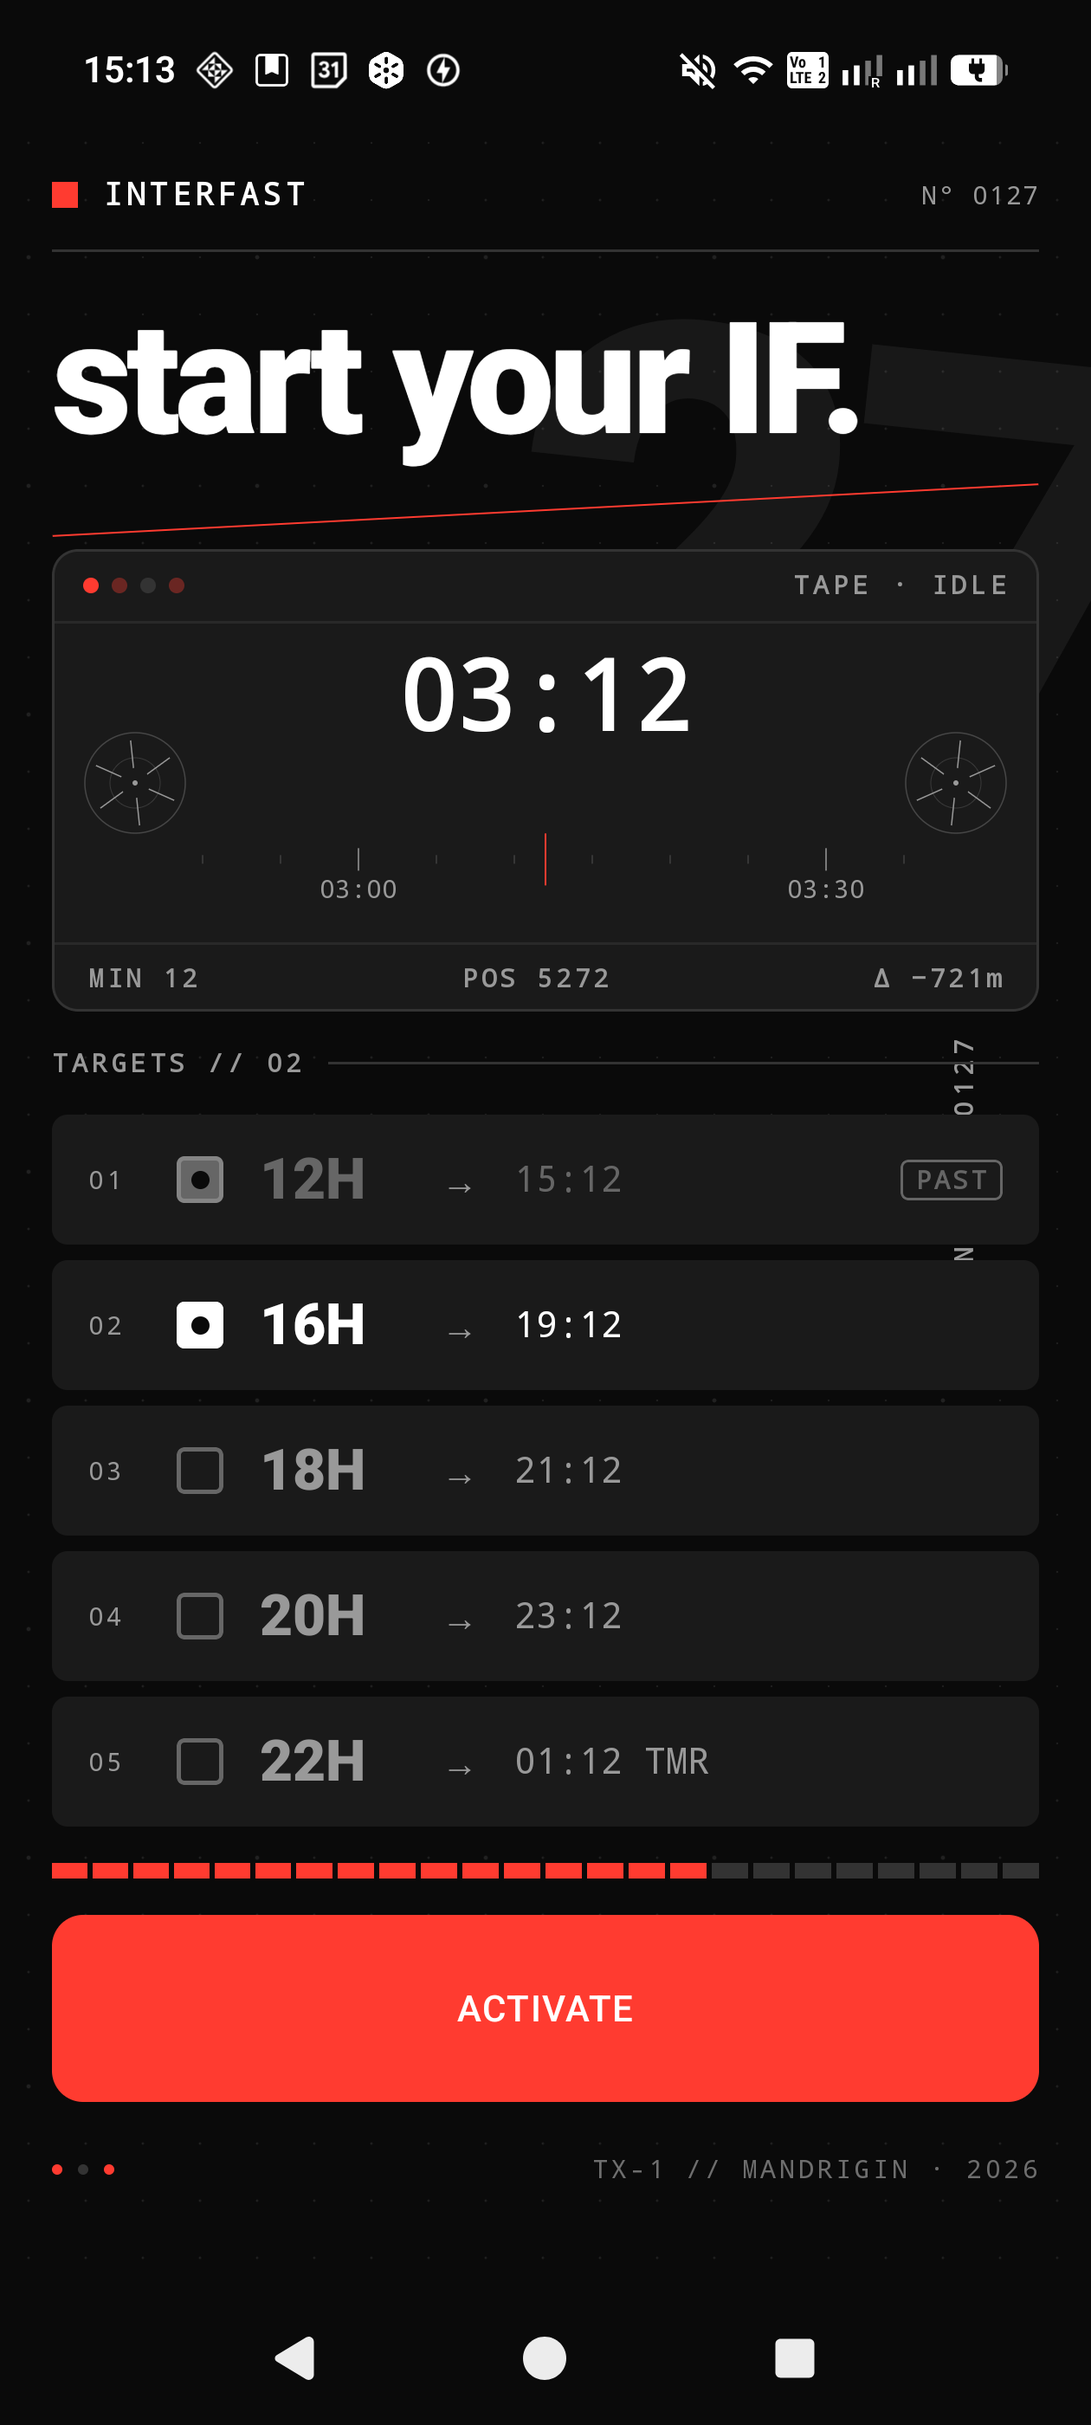
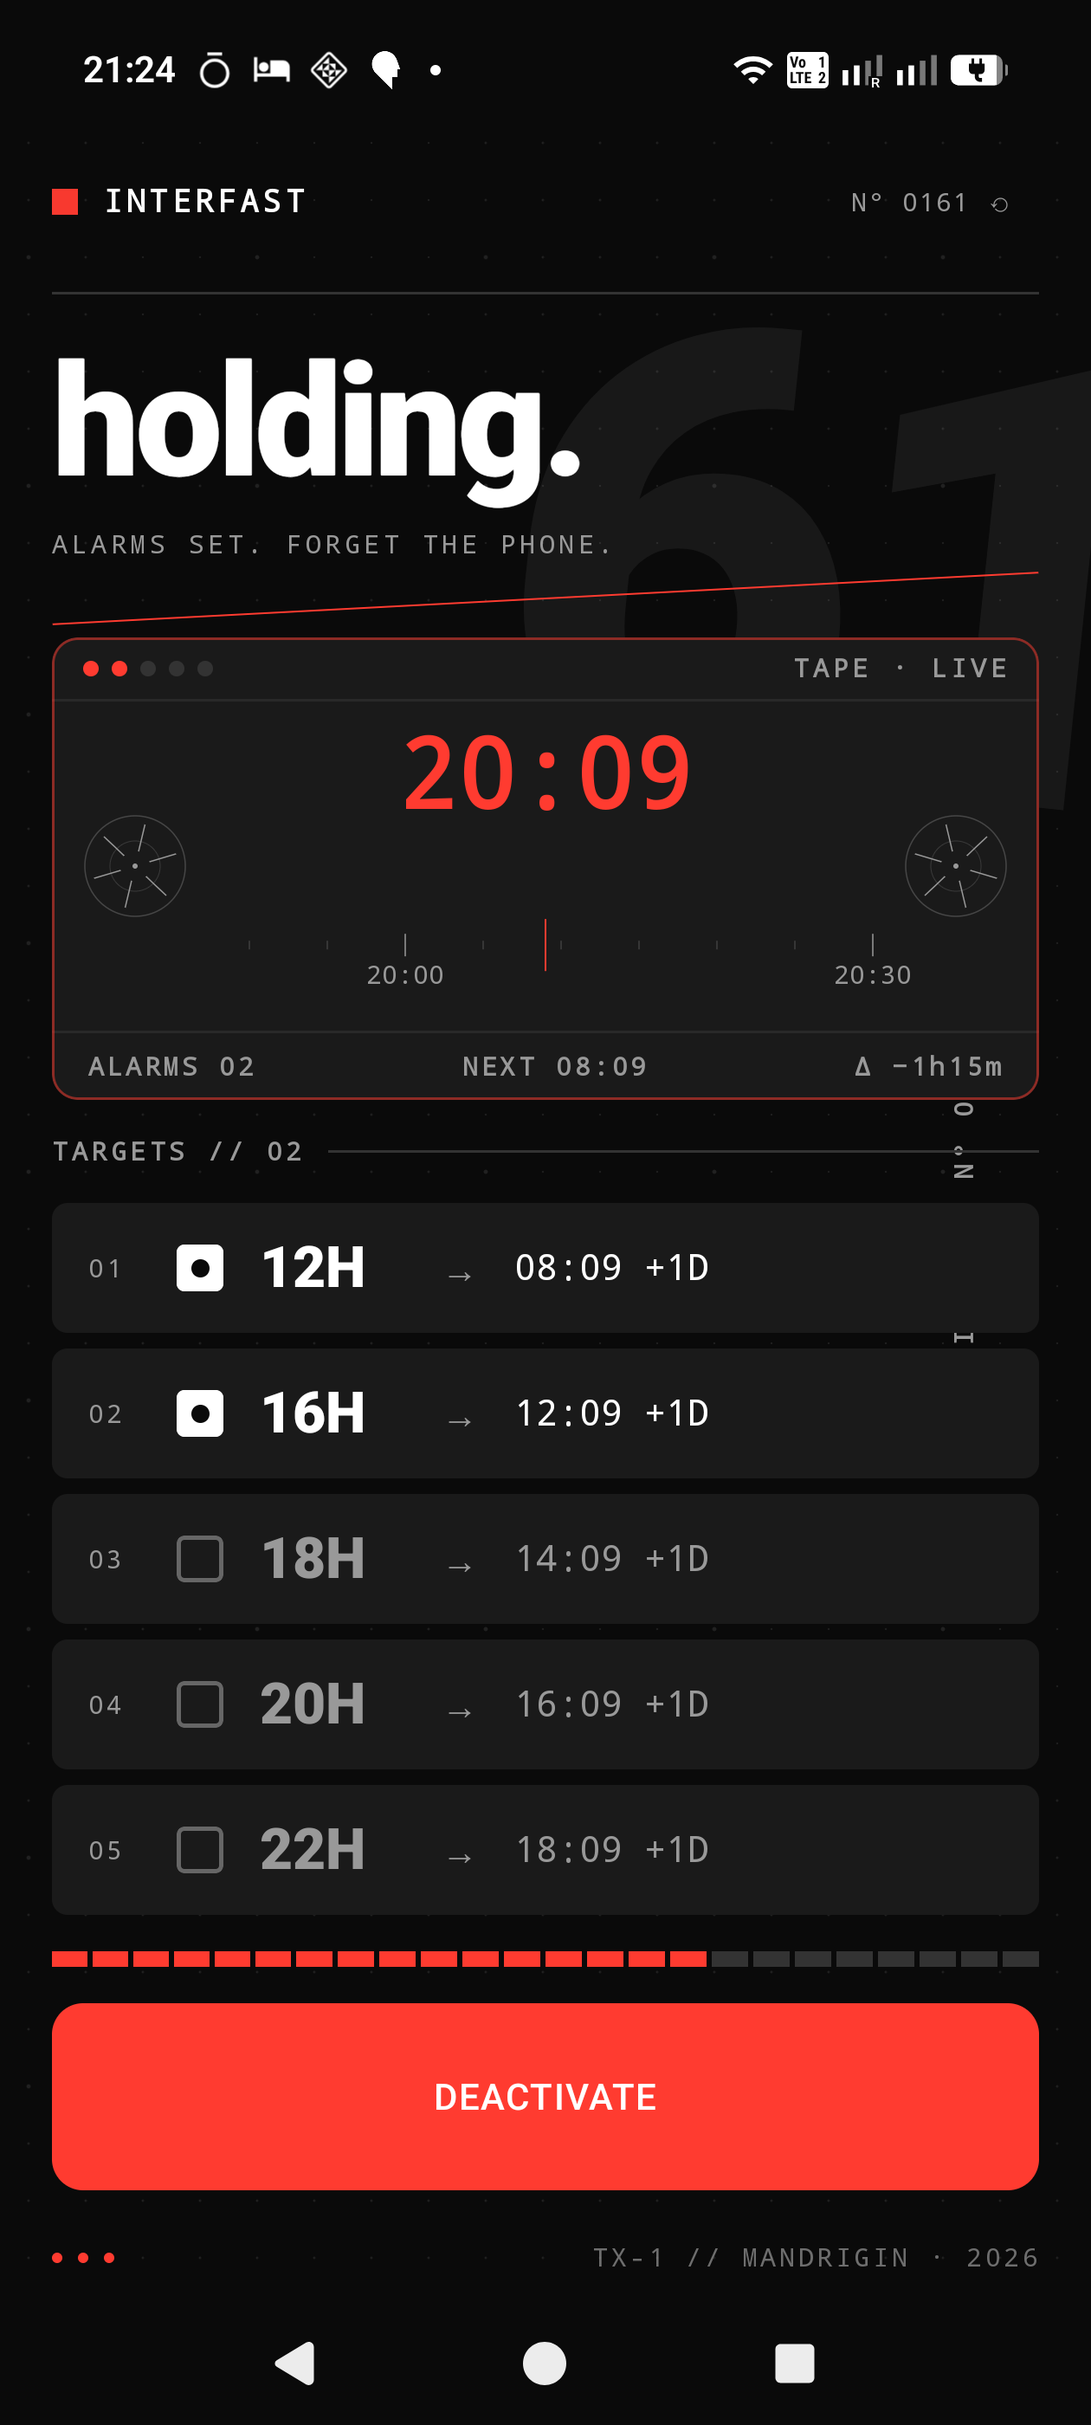
README: bring up to date with v1.1.0
Fresh screenshots from the device (front deck + printed rear), auto-disarm
woven through the copy, honest readout example, corrected notification
implementation details (dithered 200x100 banner, top scrim, final alert has
no STOP), new sections for the rear panel and accessibility, updated
interface table and architecture tree, links to PRINCIPLES/USER_GUIDE/
CHANGELOG. Removed the stale annotated screenshot.

diff --git a/README.md b/README.md
@@ -5,7 +5,8 @@
 Set the start time. Pick the milestones. Hit ACTIVATE. Your phone calls you at the right moments. That's the whole product.
 
 <p align="center">
-  <img src="docs/screenshots/home.png" alt="Interfast home screen" width="320" />
+  <img src="docs/screenshots/home.png" alt="Interfast front — the deck" width="320" />
+  <img src="docs/screenshots/rear.png" alt="Interfast rear — the printed operator's manual" width="320" />
 </p>
 
 ---
@@ -16,7 +17,7 @@ Every other intermittent-fasting (IF) app I tried got it wrong in the same way: 
 
 Fasting doesn't need any of that. The protocol is simple — eat in a window, don't eat outside it. The only hard part is **knowing when each biological milestone hits** so you can decide, in the moment, whether to keep going. Everything else those apps add is friction, anxiety, or guilt-laundered as "engagement."
 
-Interfast deletes all of it. The app is a **single-purpose scheduler**: pick a fast start time, check the milestone hours that interest you (12, 16, 18, 20, 22), tap ACTIVATE, put the phone in your pocket. The phone notifies you at each milestone with a STOP action. Eat whenever you want. The app forgets.
+Interfast deletes all of it. The app is a **single-purpose scheduler**: pick a fast start time, check the milestone hours that interest you (12, 16, 18, 20, 22), tap ACTIVATE, put the phone in your pocket. The phone notifies you at each milestone with a STOP action; after the last one, the app disarms itself — *the tape rewinds*. Eat whenever you want. The app forgets, literally.
 
 This is a deliberate stance against three failure modes that most habit / wellness apps share:
 
@@ -30,9 +31,9 @@ So Interfast is closer to a kitchen timer than a wellness app. And we made the t
 
 ## How it works (in three sentences)
 
-1. Drag the time wheel to where your last meal ended. Tap the milestones you care about.
-2. Hit **ACTIVATE**. The screen locks; you cannot accidentally edit the schedule while running.
-3. Your phone fires a notification at each checked milestone. Tap **STOP** on any of them to cancel the rest. That's it.
+1. Drag the time wheel to where your last meal ended (or tap **NOW**). Tap the milestones you care about.
+2. Hit **ACTIVATE**. The deck locks; you cannot accidentally edit the schedule while running.
+3. Your phone fires a notification at each checked milestone. Tap **STOP** on any of them to cancel the rest — and after the final milestone the app disarms itself. That's it.
 
 ---
 
@@ -40,7 +41,7 @@ So Interfast is closer to a kitchen timer than a wellness app. And we made the t
 
 #### 1 · Set and forget. Always.
 
-The single screen does everything. There is no settings page, no protocol picker, no statistics tab, no history calendar, no profile. Once you tap ACTIVATE, the app's job is to be **silent until the next milestone**. Habits stick when the cost of "doing it again tomorrow" is low — the cost of opening Interfast is one tap and one drag.
+The single screen does everything. There is no settings page, no protocol picker, no statistics tab, no history calendar, no profile. Once you tap ACTIVATE, the app's job is to be **silent until the next milestone** — and when the last milestone fires, the app deactivates itself, so tomorrow never starts with cleanup. Habits stick when the cost of "doing it again tomorrow" is low — the cost of opening Interfast is one tap and one drag.
 
 #### 2 · No streaks, no scores, no shame.
 
@@ -64,11 +65,11 @@ You're not "competing" against these numbers. They're stations along a timeline;
 
 #### 4 · The setup itself should feel mechanical.
 
-The scrubber is built like an OP-1 tape transport: spinning reels that rotate as you scrub, an LED status row, a red position needle, and an instrument-style readout (`MIN 32 · POS 1432 · Δ +12m`). This is not decoration — it converts the moment of *picking a start time* from a "fill out a form" feeling into a "operate a piece of equipment" feeling. People run a habit longer when the ritual is satisfying.
+The scrubber is built like an OP-1 tape transport: reels that rotate as you scrub (and roll continuously while the tape is LIVE), an LED row with one pip per milestone (red = armed, green = reached), a red position needle, and an instrument readout that shows only true data — `ALARMS 02 · NEXT 08:09 · Δ −46m`. This is not decoration — it converts the moment of *picking a start time* from a "fill out a form" feeling into an "operate a piece of equipment" feeling. People run a habit longer when the ritual is satisfying.
 
 #### 5 · The notification has to feel like a friend, not an alert.
 
-Every milestone notification posts as a music-player-style card: a stylized poster bitmap as the backdrop (giant numerals, dot-matrix grid, segment strip showing position in a 24h cycle), with the title and body overlaid on a bottom gradient scrim. Tapping the **STOP** action cancels every later milestone — no later notifications, no pleading, no "we hope to see you back."
+Every milestone notification posts as a music-player-style card: a dithered low-res poster bitmap as the backdrop (giant numerals, dot-matrix grid, the 24-segment strip lit to the hour reached), with the title overlaid at the top so the strip stays visible. Tapping **STOP** cancels every later milestone — no pleading, no "we hope to see you back." The *final* milestone carries no STOP at all, because there is nothing left to stop; it just says the tape rewound.
 
 The notification is the entire UI surface for 99% of usage. It has to carry the brand and the tone alone. So we put real design effort into it.
 
@@ -80,31 +81,39 @@ Light/dark switches automatically based on your phone's brightness slider (read 
 
 No accounts. No cloud. No analytics. No identifiers. Schedule state lives in `DataStore` on the device. Notifications are scheduled via `AlarmManager` (local). Nothing leaves the phone. The Privacy section of this README is short because there's nothing to disclose.
 
+#### 8 · Usable by hand or by ear.
+
+Every control works under TalkBack: the milestone rows are real checkboxes with spoken descriptions ("12 hour milestone, alarm at 08:09 tomorrow"), the tape deck exposes ±5 min / ±1 h / set-to-now accessibility actions, ACTIVATE announces why it's disabled, and the TAPE LIVE/IDLE readout announces state changes. An instrument you can't operate isn't minimal — it's broken.
+
 ---
 
-## The interface, annotated
+## The back of the unit
 
-<p align="center">
-  <img src="docs/screenshots/home-annotated.png" alt="Annotated interfast home screen" width="900" />
-</p>
+Tap the **N° edition stamp** in the header and the whole app flips over, Pocket-Operator style: a paper-cream printed back with the app's *actual* component diagram silkscreened in print colors (`SCRUB.UI → SCHED.VM → DATASTORE`, down through `ALARM.MGR → NOTIF.RX → DITHER.ART`), the TX-1 operator's manual as a legend, and the config switches — `STREAKS`, `STATS`, `GUILT` — printed permanently in the OFF position.
 
-| # | Element | Purpose |
-|---:|---|---|
-| 01 | **Brand row** | Red breathing mark + `INTERFAST` wordmark + `N° {dayOfYear}` edition number. The square pulses while a session is running so you can tell at a glance. |
-| 02 | **Hero headline** | `start your IF.` → `holding.` (active) → `flowing.` (a milestone has fired). Three states, no settings menu. |
-| 03 | **Diagonal rule** | A red 1dp line rotated 3°. Basel-poster grid break — a reminder this is built like a printed thing, not a Material template. |
-| 04 | **Tape-deck scrubber** | TE-flavoured time picker. Drag horizontally to move the start time. System fling physics. Wheel locks once active. |
-| 05 | **Reels** | Rotate at 12° per scrubbed minute. Right reel counter-rotates. Pure visual feedback — they exist to make the scrub feel *physical*. |
-| 06 | **Wheel** | 30-min major ticks with `HH:mm` labels around a fixed red needle. Whole-minute snap (so the displayed time is the exact alarm fire time). |
-| 07 | **OP-1 readout** | `MIN` (current minute) · `POS` (4-digit position counter) · `Δ` (offset from now in minutes; goes red when in the future). |
-| 08 | **Targets header** | `TARGETS // 02` — count of selected milestones, mono caps, paired with a flush rule. |
-| 09 | **Edition stamp** | Vertical mono caps stamp anchored to the right margin, rotated -90°. Industrial-instrument detail. |
-| 10 | **Toggle rows** | `01..05` index + check + hour + arrow + target time + status badge. Tap to toggle while inactive. |
-| 11 | **State badges** | `PAST` (gray) when target is already in the past. `DONE` (phosphor-green) when the milestone fired during the current session. |
-| 12 | **Ghosted numeral** | Day-of-year mod 100, rotated 6°, alpha 0.06 — sits behind everything as a poster mark that quietly changes daily. |
-| 13 | **Progress strip** | 24 segments, lit count = max selected hour. Visualizes how much of the day your schedule covers. |
-| 14 | **Primary action** | `ACTIVATE` (red, full width) → schedules notifications and locks the screen. `DEACTIVATE` while running. |
-| 15 | **Footer mark** | `TX-1 // MANDRIGIN · 2026` plus a tri-dot status indicator. The middle dot tracks the active state. |
+It's not a settings screen. It's the proof there isn't one. (`RUNTIME ∅ — WE DON'T COUNT.`) System back flips you home.
+
+---
+
+## The interface, top to bottom
+
+| Element | Purpose |
+|---|---|
+| **Brand row** | Red breathing mark + `INTERFAST` wordmark + `N° {dayOfYear} ⟲` edition stamp. The square pulses while a session is running; tapping the stamp flips the unit over to the printed back. |
+| **Hero headline** | `start a fast.` → `armed.` (start in the future) → `holding.` (running) → `flowing.` (a milestone fired) → `done.` (tape rewound). Each with a one-line mono sublabel that teaches the vocabulary. Five states, no settings menu. |
+| **Diagonal rule** | A red 1dp line rotated 3°. Basel-poster grid break — a reminder this is built like a printed thing, not a Material template. |
+| **Tape-deck scrubber** | TE-flavoured time picker. Drag horizontally to move the start time (one-time `‹ DRAG ›` hint on first run); long-press or the `NOW` chip snaps to now. System fling physics. Locks once active. |
+| **LED pips** | One per milestone: red = armed, green = reached, dim = off. The pips tell the truth. |
+| **Reels** | Rotate 12° per scrubbed minute, counter-rotating — and roll continuously while the tape is LIVE. |
+| **Wheel** | 30-min major ticks with `HH:mm` labels around a fixed red needle. Whole-minute snap, so the displayed time is the exact alarm fire time. |
+| **Readout** | `ALARMS` (armed count) · `NEXT` (next fire time, or `——:——`) · `Δ` (offset from now in h/m; red when the start is in the future). Every field is real data. |
+| **Targets header** | `TARGETS // 02` — count plus, when needed, an amber hint (`PICK AT LEAST ONE`, `ALL PAST — MOVE START`). |
+| **Toggle rows** | `01..05` index + check + hour + target time (`+1D` when tomorrow). Tap to toggle while inactive; full TalkBack checkbox semantics. |
+| **State badges** | `PAST` rows dim to 45% with struck-through times. `DONE` goes phosphor-green when the milestone fired. |
+| **Ghosted numeral** | Day-of-year mod 100, rotated 6°, alpha 0.06 — a poster mark that quietly changes daily. |
+| **Progress strip** | 24 segments, lit count = max selected hour. How much of the day your schedule covers. |
+| **Primary action** | `ACTIVATE` (red, full width) → schedules exact alarms and locks the deck. `DEACTIVATE` while running. |
+| **Footer mark** | `TX-1 // MANDRIGIN · 2026` plus a tri-dot status indicator. Tap it five times. |
 
 ---
 
@@ -114,7 +123,8 @@ Anti-feature list, because what we *don't* ship is part of the product:
 
 - **No accounts.** You can't log in. There's nothing to log in to.
 - **No streaks.** Missed days don't exist as a concept. There is no "day."
-- **No history.** The app doesn't remember past sessions. Once you DEACTIVATE, the slate is clean.
+- **No history.** The app doesn't remember past sessions. After the last milestone it disarms itself; the slate is clean.
+- **No settings.** The config switches exist — printed on the back of the unit, permanently OFF.
 - **No protocols.** "16:8", "18:6", "OMAD" aren't presets — they're emergent from which milestones you check.
 - **No coaching, no tips, no nudges.** No motivational copy. No "you got this!" No emoji.
 - **No notifications between milestones.** The app is silent until your next checked hour.
@@ -133,11 +143,12 @@ If you find yourself missing one of these, the answer is almost certainly that y
 
 A milestone notification is the entire UI surface during the 99% of the day when you're not in the app. So it's where most of the design effort went.
 
-- **Backdrop**: a programmatically rendered bitmap (1024×512) — void-black, dot-matrix grid, condensed-bold numerals (the hour in 480px type), a small "INTERFAST · FAST · COMPLETE" mono-caps strip at the top, a 24-segment progress strip at the bottom (lit proportional to the milestone reached).
-- **Layout**: full-bleed image with a bottom gradient scrim and the title + body overlaid in white mono caps with text shadow. Music-player notification style.
-- **Action**: a single `STOP` button that cancels every remaining milestone in this session. No confirmation dialog.
+- **Backdrop**: a programmatically rendered bitmap — drawn at 200×100 with anti-aliasing off, Floyd–Steinberg-dithered to a 9-color palette, then upscaled 4× nearest-neighbor for the OP-1 LCD look. Void-black, dot-matrix grid, condensed-bold numerals, a 24-segment progress strip at the bottom (lit to the hour reached). The bitmap carries no words: at that resolution type dithers into noise, so the system header and title overlay do the talking.
+- **Layout**: full-bleed image with a *top* gradient scrim and the title + body overlaid in white mono caps — anchored top so the segment strip stays visible.
+- **Action**: a single `STOP` button that cancels every remaining milestone. No confirmation dialog. The final milestone has no STOP — nothing left to stop; it reads "tape rewound. Eat well."
+- **Tap anywhere**: opens the app.
 
-Implementation: `NotificationCompat.DecoratedCustomViewStyle` + `setCustomBigContentView(RemoteViews)`. The collapsed view falls back to the system default so the shade row stays compact.
+Implementation: `NotificationCompat.DecoratedCustomViewStyle` + `setCustomBigContentView(RemoteViews)`. Collapsed and heads-up views use the system default — OEM shades crop custom heads-up layouts unpredictably, and a cropped poster is worse than no poster.
 
 ---
 
@@ -160,7 +171,7 @@ There is no network code in this app. There is no SDK. There is no telemetry. Th
 - Kotlin · Jetpack Compose · Material 3
 - `DataStore` for persistence
 - `AlarmManager.setExactAndAllowWhileIdle` for milestone scheduling (with `setAndAllowWhileIdle` fallback when exact-alarm permission isn't granted)
-- `BroadcastReceiver` triplet: milestone → notification → STOP / boot-replay
+- `BroadcastReceiver` triplet: milestone → notification → STOP / boot- and update-replay (alarms survive reboots *and* app updates via `MY_PACKAGE_REPLACED`)
 - No DI framework. A tiny ServiceLocator on `InterfastApplication` exposes the repository and scheduler.
 - No Hilt, no Room, no WorkManager, no Glance. (We removed all four during the rebuild.)
 
@@ -177,22 +188,27 @@ JDK 17. Android SDK 34. minSdk 26.
 ```
 app/src/main/java/com/interfast/
 ├── InterfastApplication.kt          ServiceLocator: scheduleRepository + alarmScheduler
-├── MainActivity.kt                  hosts ScrubberScreen, requests POST_NOTIFICATIONS
+├── MainActivity.kt                  the card flip: front (deck) ↔ rear (manual)
 ├── alarm/
 │   ├── AlarmScheduler.kt            wraps AlarmManager.setExactAndAllowWhileIdle
-│   ├── FastNotificationReceiver.kt  fires the music-player-style notification
+│   ├── FastNotificationReceiver.kt  fires the notification; auto-disarms after the last milestone
 │   ├── StopActionReceiver.kt        STOP action — cancels later milestones
-│   ├── BootReceiver.kt              re-registers active milestones after reboot
-│   ├── NotificationArt.kt           Bitmap renderer (TE-style poster)
-│   └── NotificationChannels.kt
+│   ├── BootReceiver.kt              re-registers alarms after reboot or app update
+│   ├── NotificationArt.kt           dithered low-res banner renderer
+│   ├── NotificationChannels.kt
+│   └── EasterEgg.kt                 ×5
 ├── data/ScheduleRepository.kt       DataStore-backed ScheduleState
 └── ui/
     ├── theme/                       Color, Type, Theme, AmbientLight
+    ├── rear/RearPanel.kt            the printed back: silkscreen diagram + manual
+    ├── components/InterfastButton.kt
     └── scrubber/
-        ├── ScrubberScreen.kt        the entire app's UI
+        ├── ScrubberScreen.kt        the front: the entire deck UI
         ├── ScheduleViewModel.kt
         └── Pieces.kt                BrandHeader, HeroTitle, IndexedHourRow, …
 ```
+
+More docs: [PRINCIPLES.md](docs/PRINCIPLES.md) (the one-page law) · [USER_GUIDE.md](docs/USER_GUIDE.md) · [CHANGELOG.md](docs/CHANGELOG.md)
 
 ---
 
@@ -213,4 +229,4 @@ Apache 2.0. See [LICENSE](LICENSE).
 
 ---
 
-*Interfast is a single-screen Android app. The goal of the project is to remain a single screen.*
+*Interfast is a single-screen Android app. The goal of the project is to remain a single screen. (The back of the screen is print, not a screen. It doesn't count.)*
